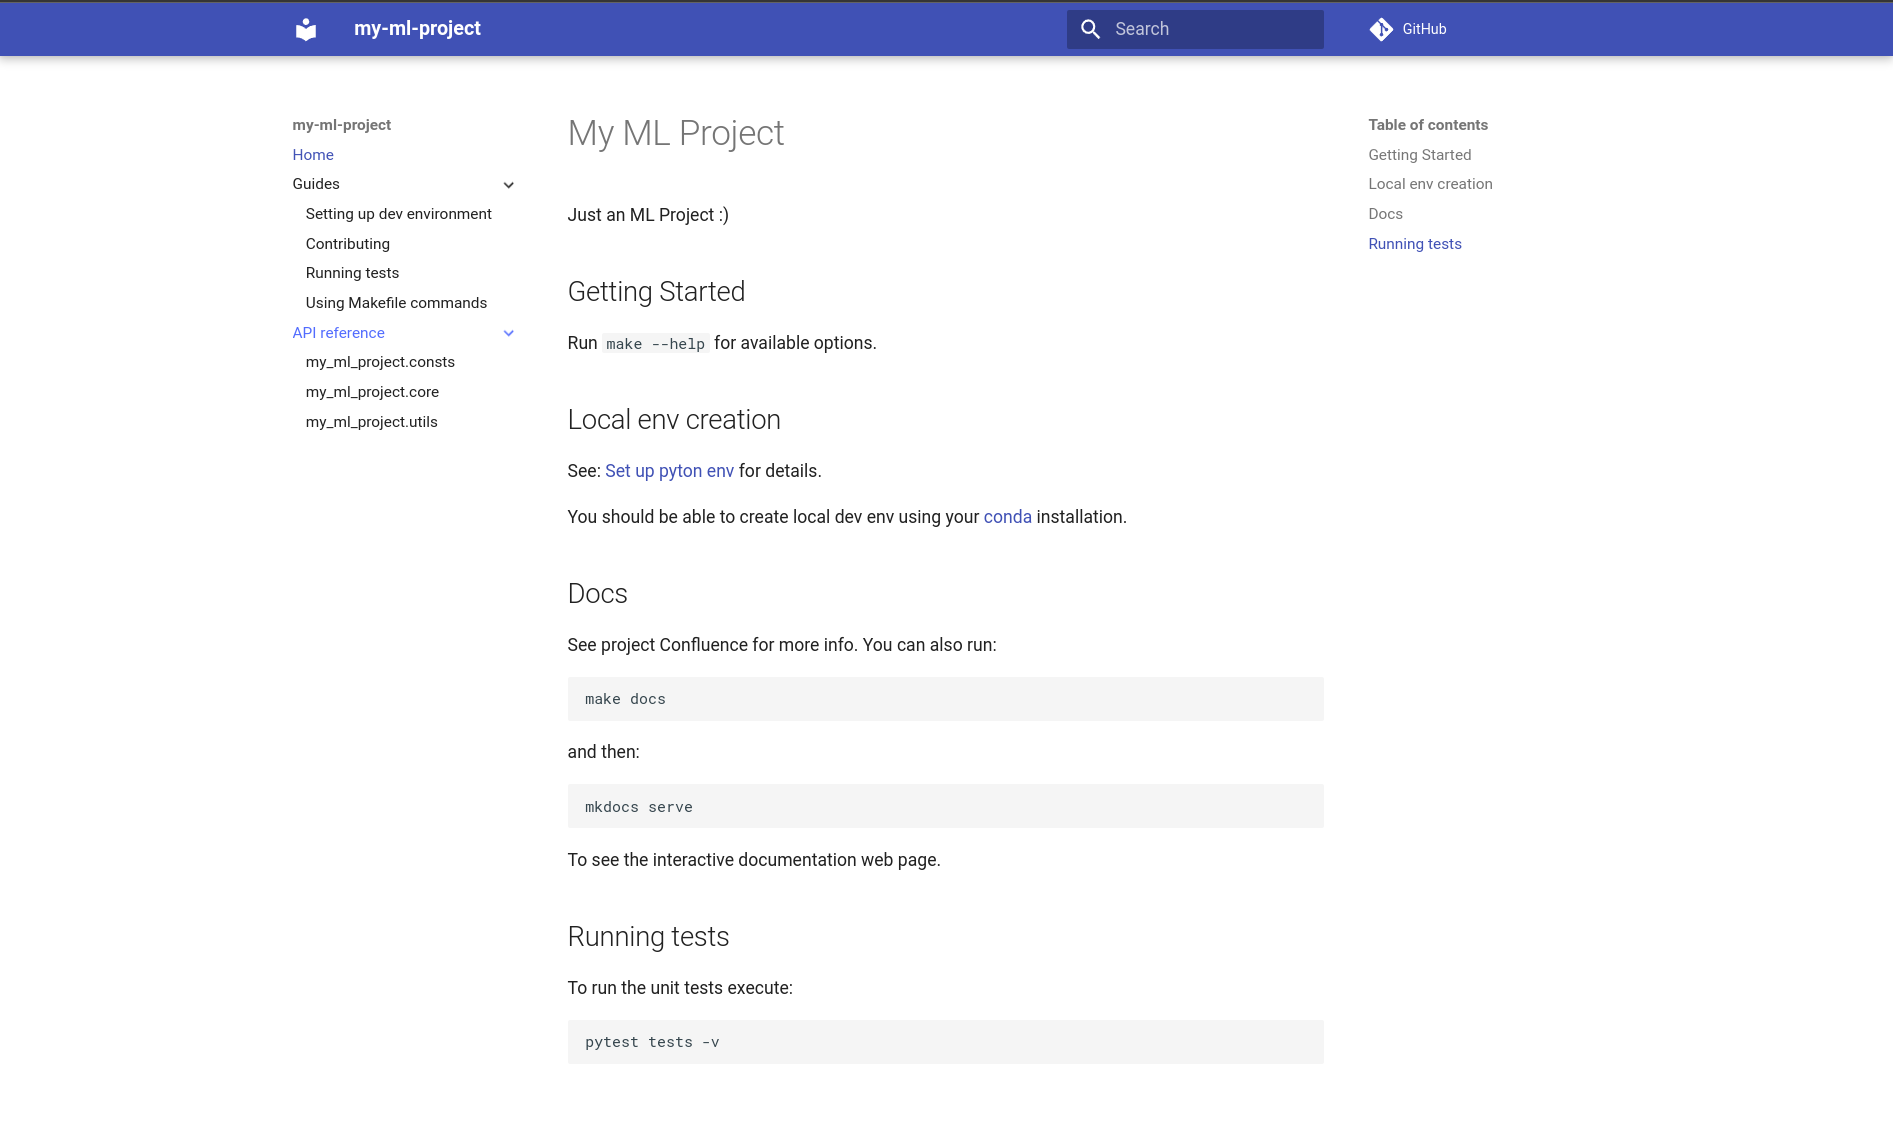
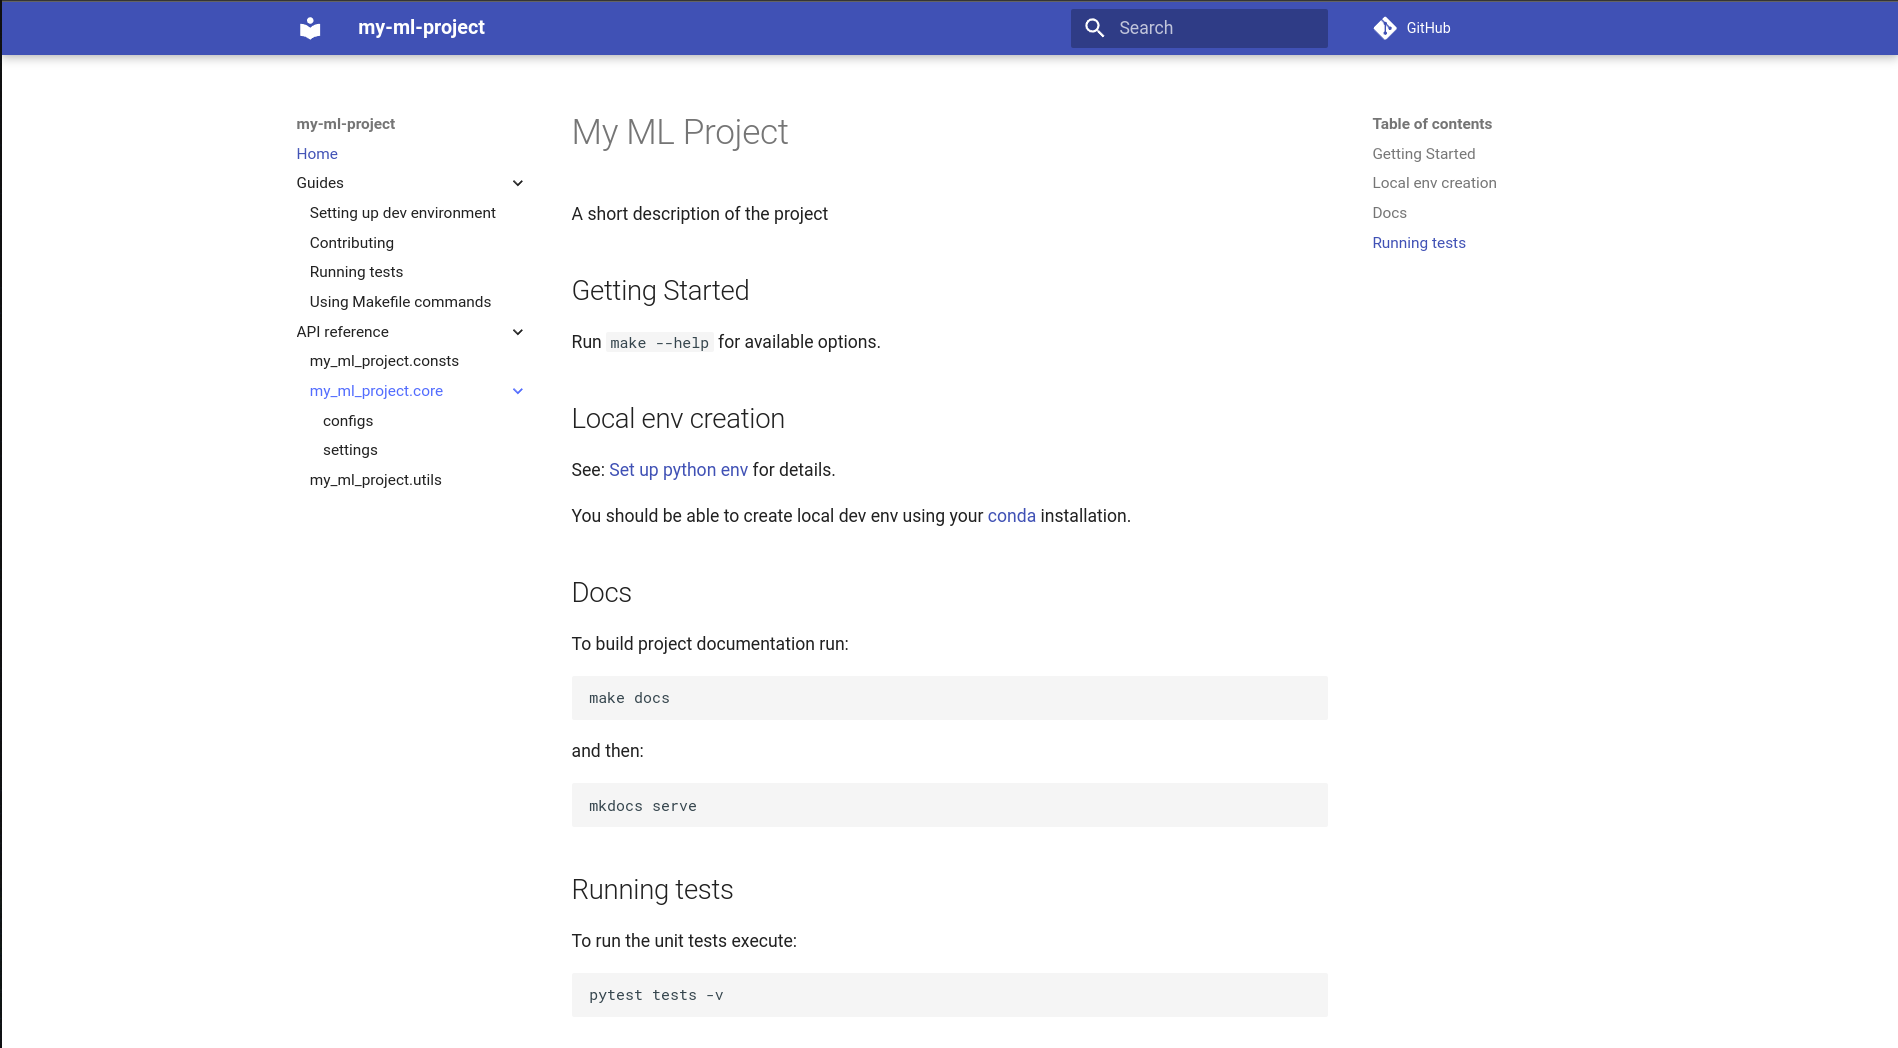
Readme update (#5)
* Update `Readme.md`, 
* `mkdocs` uses `index.md`, 
* remove `gen_ref_pages.py`

diff --git a/docs/index.md b/docs/index.md
@@ -1,0 +1,71 @@
+# ml-project-cookiecutter
+
+A cookiecutter template for my private ML projects.
+
+## Motivation
+
+During my career I worked in a lot of different ML projects - computer vision, NLP, classical ML, time series
+forecasting and others. The projects ranged from pure R&D, through PoCs and production ready stuff. Whenever I would
+start a new project I found myself copying things from a bunch of different sources and my old projects again and
+again - recreating and duplicating the work I did a dozen times before. Cookiecutter project templates to the resque!
+
+The usage of technologies and certain patterns in the template is highly opinionated and is dictated by years
+of experience of working with Data Scientists and R&D Engineers. As ML Engineer I would often find myself working
+with low quality code, written by others in notebooks or scripts, without any form of documentation, standardized
+coding style or even a way to reproduce the environment or analysis results. Moving that to production? Good luck!
+
+In my opinion the fastest way to move ML stuff to production is **to force the Data Scientists** to write quality code
+from the start. Want to add your changes to the repo? Sure, once all `pre-commit` hooks are green you'll be able to
+commit your changes. Add to that a CI pipeline, automated tests and PR review process, and you'll have easier way to
+ensure that the code and models are production ready faster.
+
+Won't that slow down Data Scientists? Yes. At first at least. They'll have to learn working with a set of standard
+python tools that are known in the industry for years. Spending a few hours on this is way better than spending
+a few weeks on productionizing the code later. Your ML/MLOps Engineers will thank you for this.
+
+???+ note
+    Now, standardized code style, type hints and good documentation are just a small step to success. All of this doesn't
+    mean much without code understanding and following good coding practices. In my opinion every great Data Scientist
+    or ML Engineer should also be a great programmer. Learn how to write clean, testable code. Learn data structures,
+    algorithms and design patterns. Have a CI in place. Verify changes via PRs and automated tests. Automate as much
+    as you can. Integrate with other services that will allow you to ensure reproducibility, scaling, experiment tracing,
+    artifact versioning and easier deployment.
+
+This project was greatly inspired by
+[Cookiecutter Data Science](https://github.com/drivendata/cookiecutter-data-science/) project.
+
+## Features
+
+- Integrated `pre-commit` hooks:
+    - `pyupgrade`
+    - `codespell`
+    - `docformatter`
+    - `ruff`
+    - `mypy`
+    - `pytest`
+    - And a few more...
+- Project documentation creation using [MkDocs](https://www.mkdocs.org/) with
+    [Material](https://squidfunk.github.io/mkdocs-material/) theme.
+- CI pipelines (Azure DevOps)
+- Some useful utility classes and functions I found myself re-implementing again and again
+- Folder structure inspired by [Cookiecutter Data Science](https://github.com/drivendata/cookiecutter-data-science/)
+- Conda `env.yaml` file for reproducibility
+- Makefile with a bunch of pre-defined commands
+- Secrets support using `.env` files and [pydantic-settings](https://docs.pydantic.dev/latest/usage/pydantic_settings/)
+- `pyproject.toml` with project tool configs
+
+## Getting started
+
+To get started, please check out [this](guide.md) guide.
+
+## Contributing
+
+Please refer to [this](contributing.md) guide.
+
+## Running tests
+
+To run the unit tests execute:
+
+```shell
+pytest tests
+```

diff --git a/README.md b/README.md
@@ -23,13 +23,13 @@ Won't that slow down Data Scientists? Yes. At first at least. They'll have to le
 python tools that are known in the industry for years. Spending a few hours on this is way better than spending
 a few weeks on productionizing the code later. Your ML/MLOps Engineers will thank you for this.
 
-???+ note
-    Now, standardized code style, type hints and good documentation are just a small step to success. All of this doesn't
-    mean much without code understanding and following good coding practices. In my opinion every great Data Scientist
-    or ML Engineer should also be a great programmer. Learn how to write clean, testable code. Learn data structures,
-    algorithms and design patterns. Have a CI in place. Verify changes via PRs and automated tests. Automate as much
-    as you can. Integrate with other services that will allow you to ensure reproducibility, scaling, experiment tracing,
-    artifact versioning and easier deployment.
+> **NOTE**
+> Now, standardized code style, type hints and good documentation are just a small step to success. All of this doesn't
+> mean much without code understanding and following good coding practices. In my opinion every great Data Scientist
+> or ML Engineer should also be a great programmer. Learn how to write clean, testable code. Learn data structures,
+> algorithms and design patterns. Have a CI in place. Verify changes via PRs and automated tests. Automate as much
+> as you can. Integrate with other services that will allow you to ensure reproducibility, scaling, experiment tracing,
+> artifact versioning and easier deployment.
 
 This project was greatly inspired by
 [Cookiecutter Data Science](https://github.com/drivendata/cookiecutter-data-science/) project.
@@ -53,6 +53,14 @@ This project was greatly inspired by
 - Makefile with a bunch of pre-defined commands
 - Secrets support using `.env` files and [pydantic-settings](https://docs.pydantic.dev/latest/usage/pydantic_settings/)
 - `pyproject.toml` with project tool configs
+
+## Getting started
+
+To get started, please check out [this](https://xultaeculcis.github.io/ml-project-cookiecutter/guide/) guide.
+
+## Contributing
+
+Please refer to [this](https://xultaeculcis.github.io/ml-project-cookiecutter/contributing/) guide.
 
 ## Running tests
 
